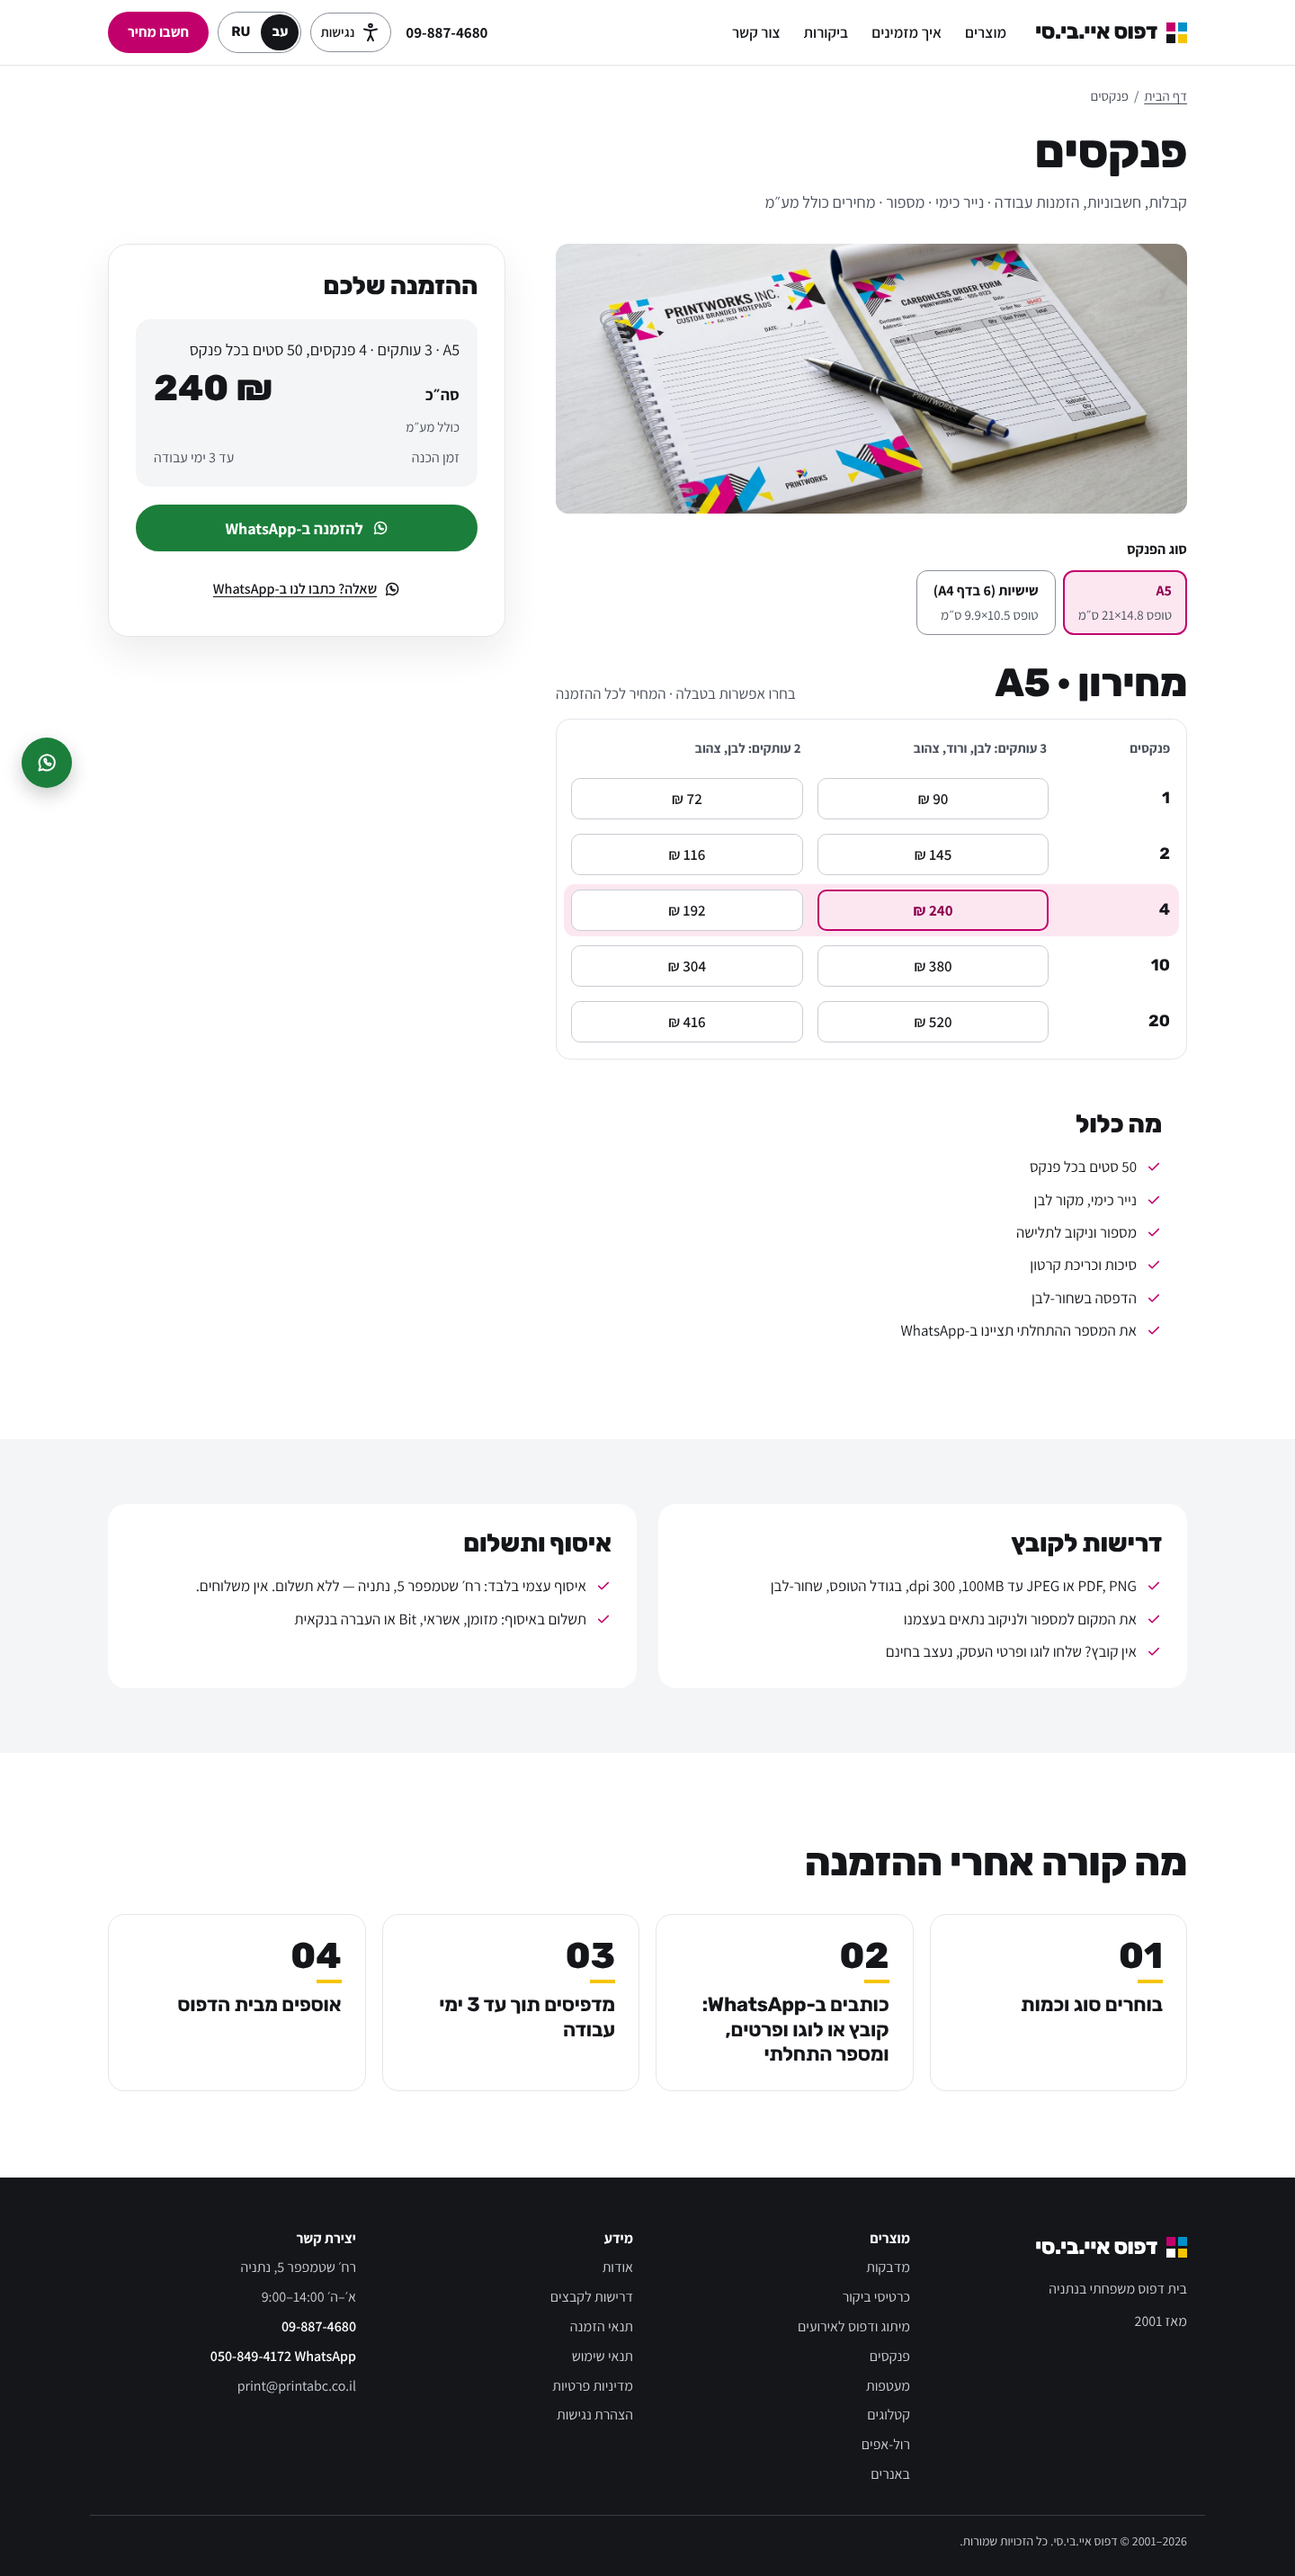
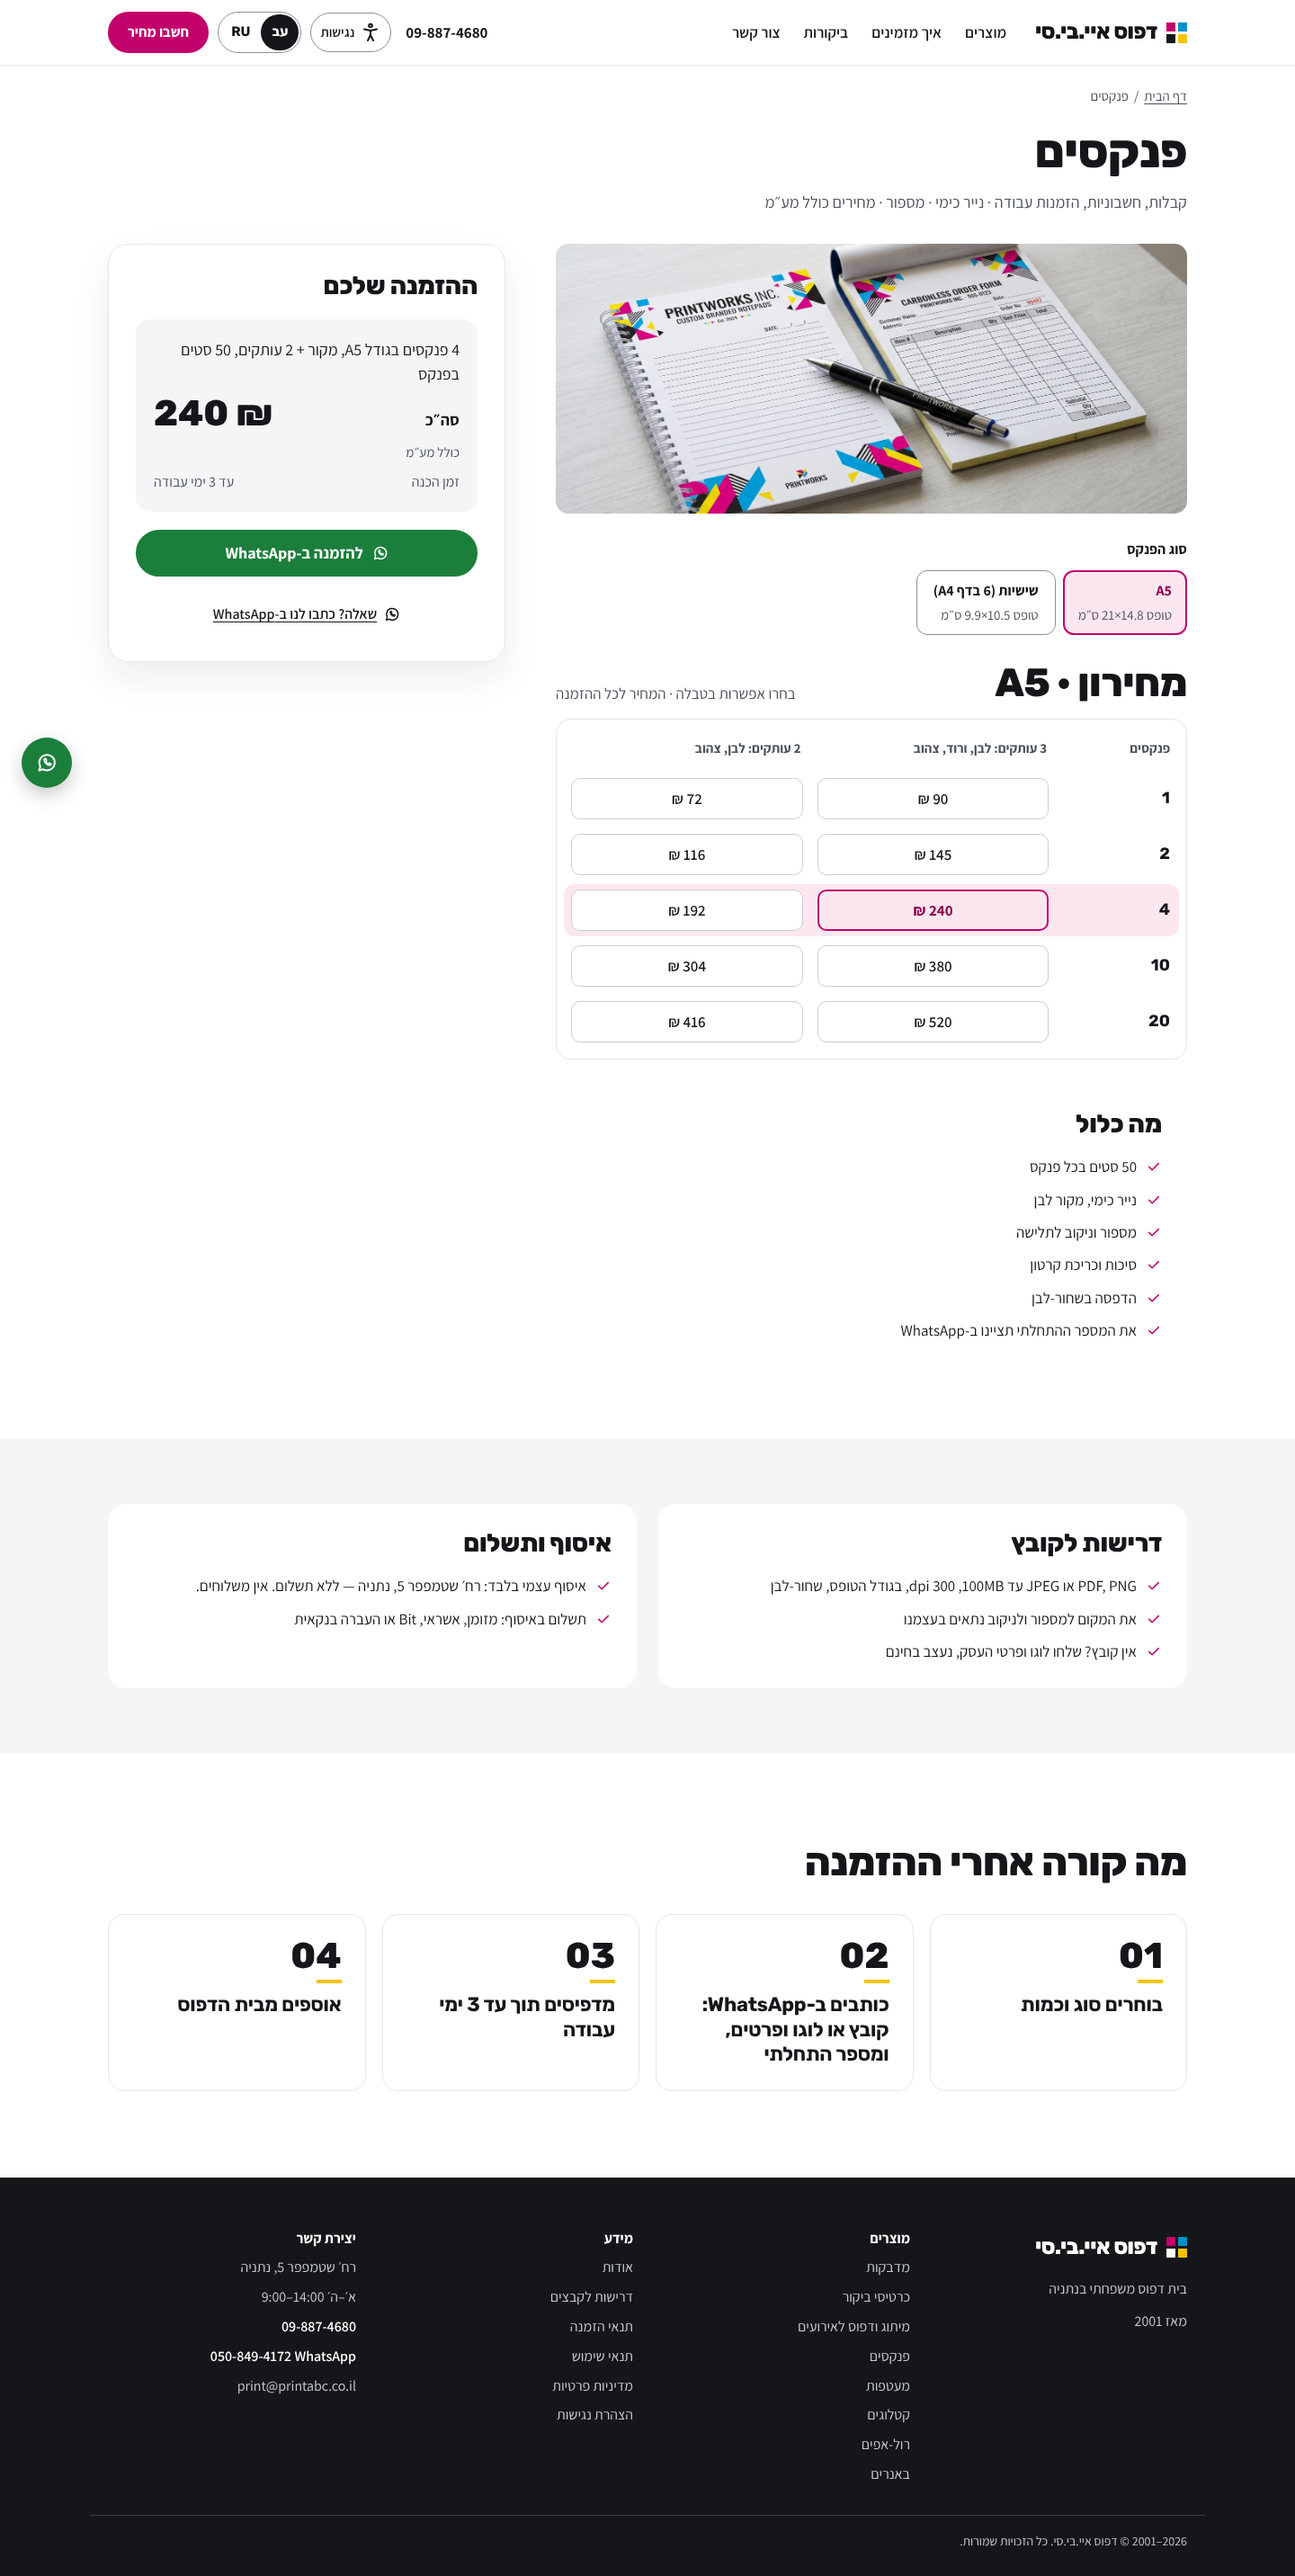
Use owner's Hebrew order summary format on pinkasim
Claude-Session: https://claude.ai/code/session_01NJSa7zN3WopdnxMQMP2hRm

Changed region(s): [[0.0938, 0.1243, 0.375, 0.2486]]

diff --git a/docs/pinkasim/dev/2026-11-15-fixes/README.md b/docs/pinkasim/dev/2026-11-15-fixes/README.md
@@ -16,7 +16,7 @@
 | Файл | Что в нём |
 |---|---|
 | `Pages/Pinkasim.cshtml` | Таблица (aria-label из resx, `data-books`), строка ошибки, скрипт с комментариями |
-| `Resources/Pages/Pinkasim.{he,ru}.resx` | Строки WhatsApp без `%0a`, `books_1…books_20`, `col_qty`, текст ошибки |
+| `Resources/Pages/Pinkasim.{he,ru}.resx` | Строки WhatsApp без `%0a`, `books_1…books_20`, шаблон «Ваш заказ», `col_qty`, текст ошибки |
 | `Pages/Shared/_BottomBar.cshtml` + resx | Режим «Итого … Заказать →» для страницы книжек |
 | `Pages/Shared/_Header.cshtml` + resx | Пункт «Бухгалтерские книжки» в меню ☰ |
 | `wwwroot/css/pages.css`, `layout.css` | `767.98px`; `scroll-padding-bottom` под нижнюю панель |
@@ -62,7 +62,19 @@ const href = whatsappUrl + encodeURIComponent(msg);  // '\n' сам станет
 Скрипт берёт `tr.dataset.books` и подставляет в `qty_line` («{0} по 50 комплектов» / «{0}, 50 סטים בכל פנקס»).
 Если добавится новое количество — добавить строку в таблицу и ключ `books_N` в оба resx.
 
-**Проверка.** «A5 · 3 листа · 4 книжки по 50 комплектов»; шестёрки 10 → «10 книжек»; иврит 1 → «פנקס אחד».
+Строка «Ваш заказ» строится по шаблону `summary_line` из resx, потому что порядок слов в иврите другой
+(формат владельца 15.11):
+
+| | ru | he |
+|---|---|---|
+| `summary_line` | `{kind} · {copies} · {qty} по 50 комплектов` | `{qty} בגודל {kind}, {copies}, 50 סטים בפנקס` |
+| `sum_kind_a5` / `sum_kind_six` | A5 / Шестёрки | A5 / שישיות (6 בדף A4) |
+| `sum_copies_3` / `sum_copies_2` | 3 листа / 2 листа | מקור + 2 עותקים / מקור + עותק |
+
+`{qty}` — это `books_N`. Скрипт просто делает три `.replace(...)`, склеивать куски в коде не нужно.
+
+**Проверка.** ru: «A5 · 3 листа · 4 книжки по 50 комплектов», шестёрки 10 → «10 книжек».
+he: «4 פנקסים בגודל A5, מקור + 2 עותקים, 50 סטים בפנקס», 1 книжка → «פנקס אחד בגודל A5, …».
 
 ## В3 + М1 + М2. Иврит в aria-label на /ru, заголовок столбца, имена атрибутов
 
